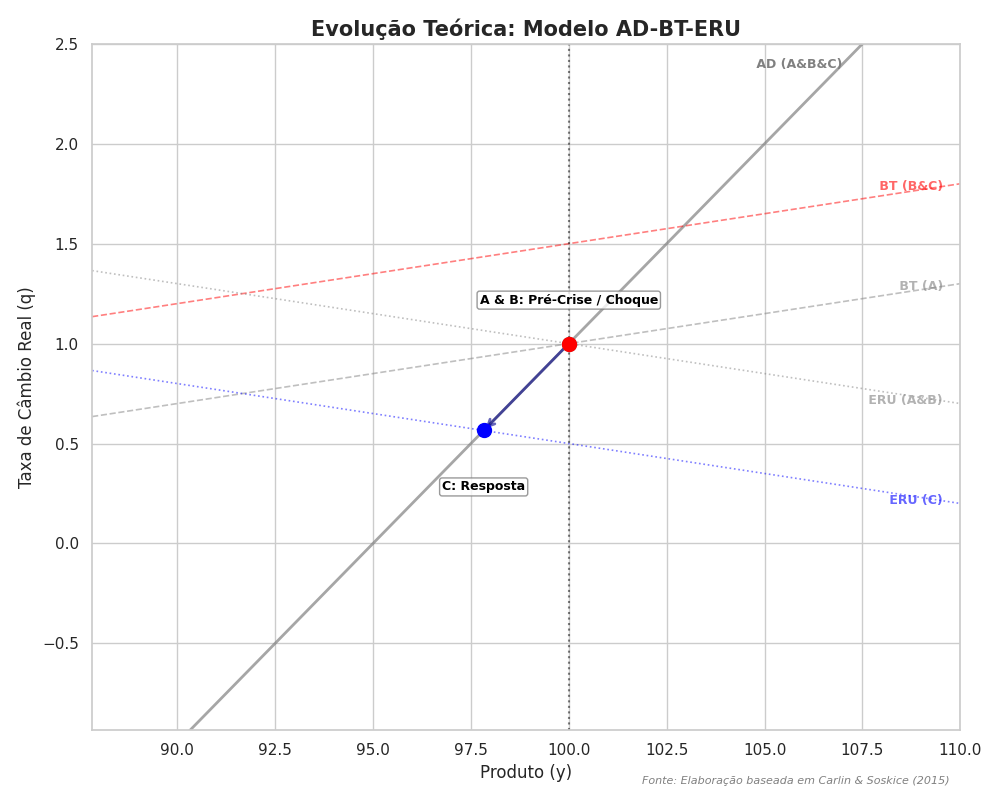
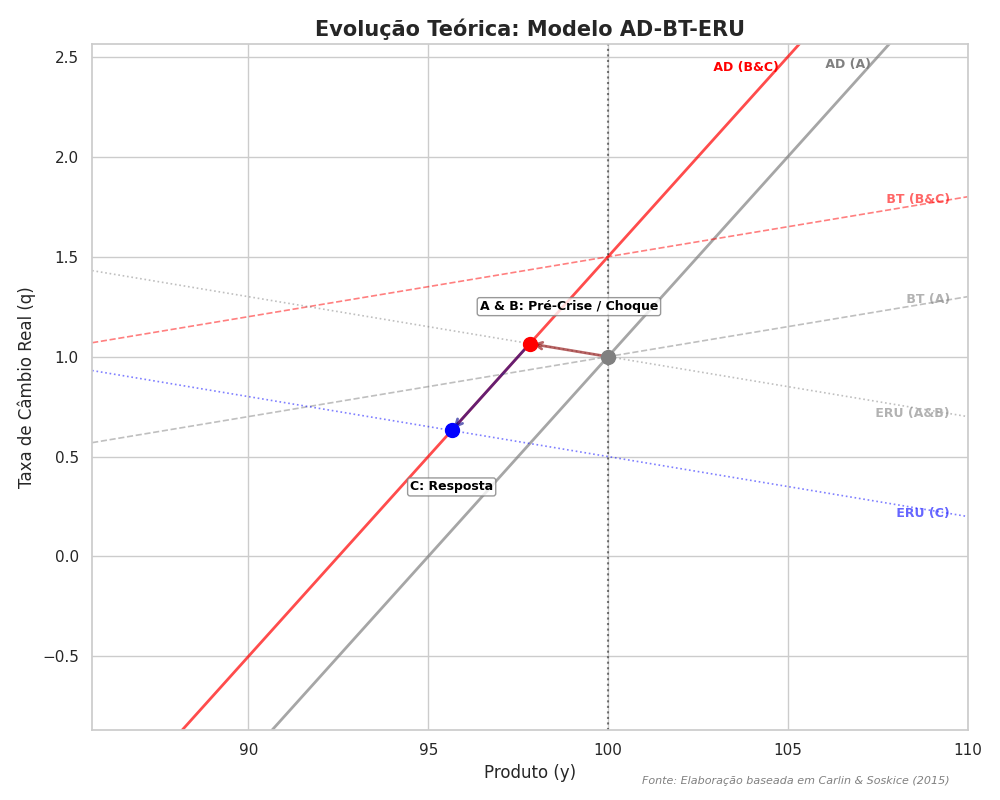
New Oil graph

diff --git a/main.py b/main.py
@@ -225,8 +225,8 @@ def run_analysis():
                 }
                 states_ad_bt_eru = {
                     'A': {},
-                    'B': {'bt_shift': 0.5}, # Piora na balança comercial
-                    'C': {'bt_shift': 0.5, 'eru_shift': -0.5} # Compressão salarial (ERU para baixo)
+                    'B': {'bt_shift': 0.5, 'ad_shift': 0.5}, # Piora na balança comercial
+                    'C': {'bt_shift': 0.5, 'ad_shift': 0.5, 'eru_shift': -0.5} # Compressão salarial (ERU para baixo)
                 }
             elif "2008" in key:
                 states_is_pc_mr = {

diff --git a/report/1_crise_do_petroleo.md b/report/1_crise_do_petroleo.md
@@ -32,3 +32,21 @@ A gestão das crises do petróleo provou a capacidade de coordenação do Estado
 *   `1. Crise do Petroleo_evolucao_ISPCMR.png` (Trajetória A → B → C)
 *   `1. Crise do Petroleo_monetario.png` (Juros Reais e Inflação)
 *   `1. Crise do Petroleo_desequilibrios.png` (Dívida e Conta Corrente)
+
+# 5. Pontos de Política Economica
+
+O governo manteve o investimento (I) alto via subsídios e crédito direcionado às Chaebols, para preservar a capacidade industrial.
+
+Após 1980, o Banco da Coreia (BoK) elevou os juros nominais para 21% (Estado C), para quebrar a inércia inflacionária.
+
+O ambiente institucional era marcado pela “Repressão Financeira” e pelo controle estatal do crédito. A confiança era garantida pelo Estado, que atuava como segurador de última instância das Chaebols. O mercado de trabalho era rígido, com sindicatos controlados, o que permitia que o salário real crescesse abaixo da produtividade.
+
+A Indústria sofreu pressões severas de custos, mas o governo Park Chung-hee manteve o foco na expansão da infraestrutura. A estratégia era “crescer para pagar a dívida”, o que evitou uma recessão prolongada mas alimentou a inflação.
+
+A demanda agregada foi sustentada artificialmente via Investimento (I) massivo e direcionado. O governo utilizou os “Policy Loans” — créditos com juros subsidiados — para canalizar recursos para as Chaebols. Isso permitiu que a formação bruta de capital fixo continuasse a crescer mesmo em um cenário global adverso.
+
+As exportações (X) tornaram-se o canal de saída. A Coreia aproveitou o boom de construção no Oriente Médio (petrodólares) para exportar serviços de engenharia e construção civil, compensando parte do déficit comercial de energia.
+
+Durante a fase de acomodação (1974-1978), os juros reais foram frequentemente negativos (i < π), o que na prática significou uma transferência de renda dos poupadores para os grandes conglomerados (Chaebols), facilitando o investimento mas prejudicando a estabilidade monetária de longo prazo.
+
+A Coreia utilizou desvalorizações agressivas do Won para manter a competitividade das exportações frente ao choque de custos. Após o segundo choque (1979) e o assassinato de Park Chung-hee, o país entrou em um programa de estabilização rigoroso (1980), onde o câmbio nominal foi drasticamente ajustado e os juros foram elevados para atrair capital e conter a inflação.
